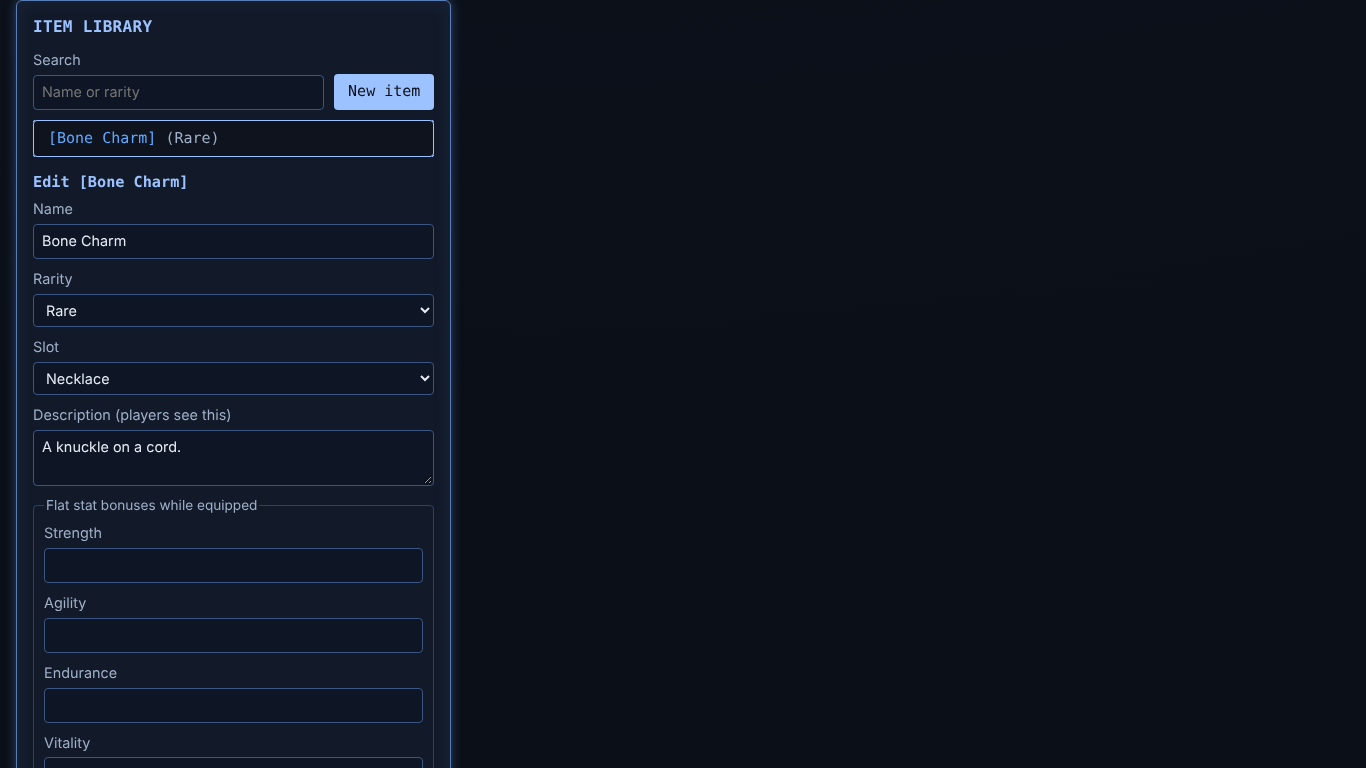
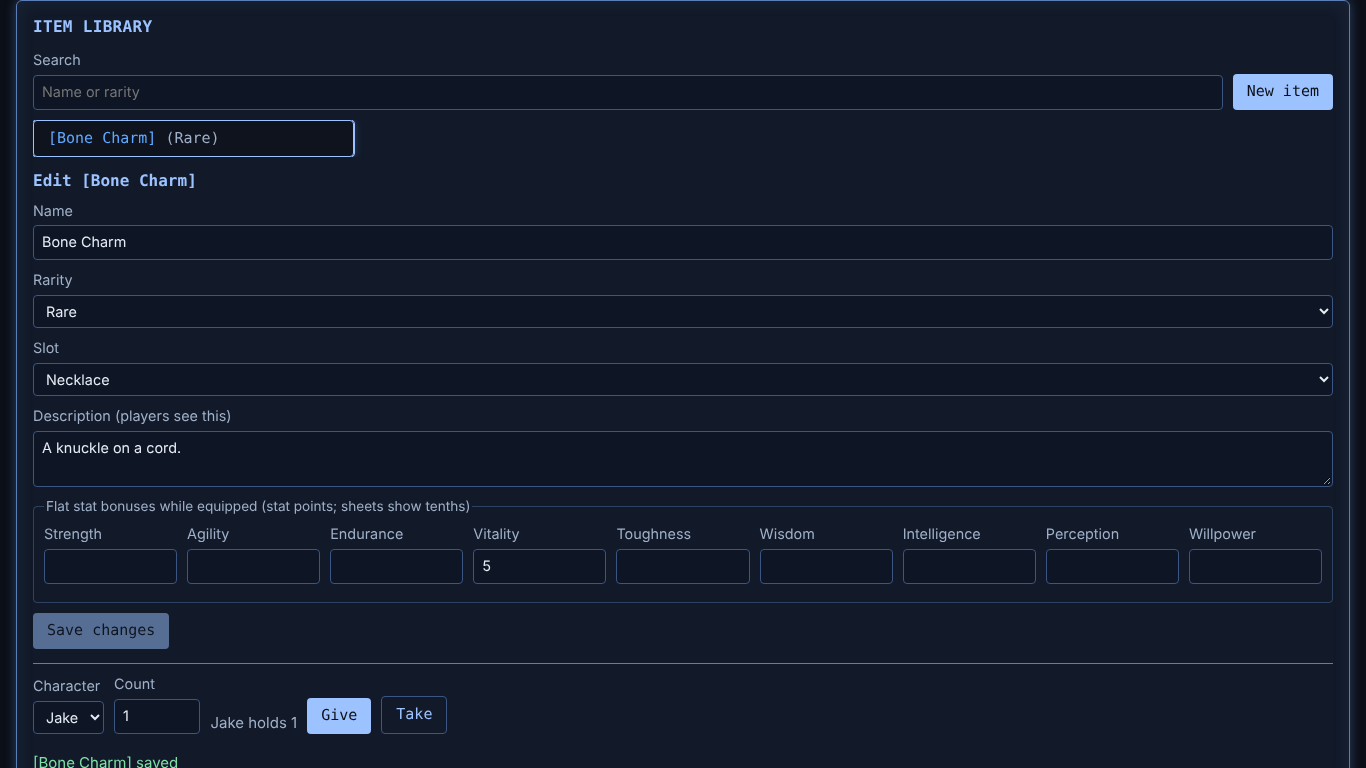
feat(M6.1): item library bonus grid and give/take row; D174
Claude-Session: https://claude.ai/code/session_01L71yhYsPG2o9HR2zpUVqZC

diff --git a/apps/web/src/styles.css b/apps/web/src/styles.css
@@ -2266,3 +2266,41 @@ ol.change-log li.undone .change-text {
   margin: 0 0 0.5rem;
   padding: 0;
 }
+
+/* GM item library (M6.1) */
+.item-library {
+  grid-column: 1 / -1;
+}
+.item-library h3 {
+  margin: 4px 0 8px;
+  font-size: 1rem;
+}
+.item-bonuses {
+  display: grid;
+  grid-template-columns: repeat(auto-fill, minmax(120px, 1fr));
+  gap: 4px 10px;
+}
+.item-bonuses legend {
+  grid-column: 1 / -1;
+}
+.item-bonuses input {
+  width: 100%;
+}
+.item-give {
+  display: flex;
+  flex-wrap: wrap;
+  gap: 10px;
+  align-items: flex-end;
+  margin-top: 14px;
+  padding-top: 10px;
+  border-top: 1px solid var(--border);
+}
+.item-give input {
+  width: 6em;
+}
+.item-give p {
+  margin: 0 0 10px;
+}
+.item-give button {
+  margin-bottom: 10px;
+}

diff --git a/apps/web/src/gm/ItemLibrary.tsx b/apps/web/src/gm/ItemLibrary.tsx
@@ -161,7 +161,7 @@ export function ItemLibrary({ client, state }: { client: LiveClient; state: Camp
           />
         </label>
         <fieldset className="item-bonuses">
-          <legend>Flat stat bonuses while equipped</legend>
+          <legend>Flat stat bonuses while equipped (stat points; sheets show tenths)</legend>
           {stats.map((s) => (
             <label key={s.id}>
               {s.name}

diff --git a/docs/DECISIONS.md b/docs/DECISIONS.md
@@ -193,3 +193,4 @@ Newest at the bottom. Format: ID · date · decision · why. D-numbers are writt
 - D171 · 2026-10-23 · M5.4 merges: a GM "Merges" window built on a pure engine helper `mergeCandidates` (the character's merge alerts, each run through `mergeSkills` with a probe name so it shows the merged rarity or the engine's refusal reason). Sending is the existing `skill.merge` followed by `skill.describe` when the GM wrote text (two commands; a failed text save is reported and leaves the merge in place). The owner gets a book-style DING (`skillMerge` notification). No accept step for the player (Q62). The DING is for GM-sent merges only: a merge offered inside an evolution (D168) is part of the option the player picks themselves, so it gets no separate notice. The Send button is held while the name clashes with one of the character's skills (the engine refuses it anyway), and the per-grade limit text reads the rules config. · DESIGN §6 defines merges as unlocking and the System granting them; no new event keeps the save format unchanged.
 - D172 · 2026-10-23 · M5.5 practice capture: three GM-only events, `practice.edited` (action/skills/stat; omitted fields stay; a skill the entry already names may stay after it was merged away), `practice.removed` (montage focuses refused: the montage points at its entry; edit it instead) and `practice.reviewed` (batch of ids). Entries carry `reviewed` (state v26): true from the start for the GM's own entries, false for player and montage entries until the GM edits or reviews them. The GM "Practice" window has a quick-add form (Alt+P focuses the action from anywhere on the console), an "End scene" prompt that steps through the party one character at a time (log or "Nothing for X"), and a "To review" list with OK / Edit / Remove and Mark all reviewed. The end-of-scene prompt is GM-side only for now (Q63). · DESIGN §7 lists quick-add, end-of-scene prompt and review; the M1.8 review asked for edit/remove/reviewed events.
 - D173 · 2026-10-23 · Milestone M5 (M5.A): `e2e/M5.A.spec.ts` runs one Archer through the four skill loops in play order, all from the UI on both sides: G→F evolution (GM keeps one skill's rarity in the re-rating; the player sees "stays"), the level 5 selection (menu built and sent, player confirms), player-logged practice reviewed by the GM, a mark confirmed and upgraded from the session review (player DING), and a merge of the two skills the player logged together (player DING; originals gone). Only the character and its three earlier marks are set up by command. It checks a reload, a 390×844 phone, and that the GM-only XP reason and GM key never reach a player frame. · One character through every loop catches hand-off bugs between the items' own specs (e.g. a re-rated skill feeding the marks and merge rules).
+- D174 · 2026-10-23 · M6.1 item library: a GM "Item library" window (full width) on pure helpers in `itemLibraryModel.ts`: search by name or rarity; create (`item.define`) or edit (`item.edit` carrying only changed fields, so a save with nothing changed is disabled); rarity, slot (or "Not equippable"), player-visible description and one whole-number flat bonus per stat, entered in stat points (sheets show tenths, DESIGN §2); give or take N copies with `holdings.adjust`, showing how many the chosen character holds. The item cap (DESIGN §4) applies on the sheet, not in the library. · DESIGN §7 "Items": flat bonuses only; D58 keeps one definition per item so a rarity change reaches every copy.
